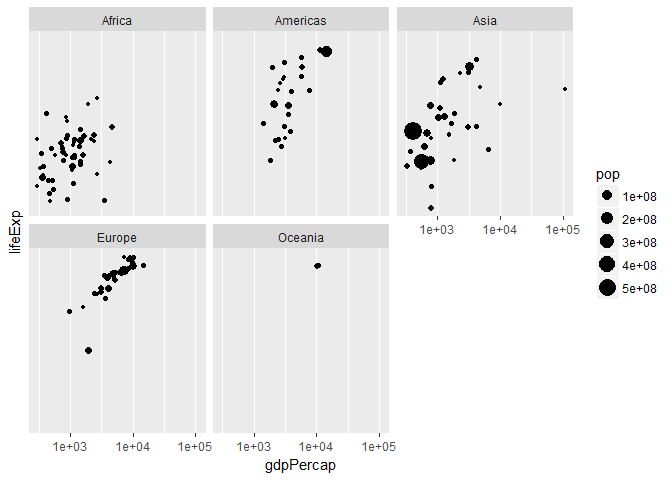
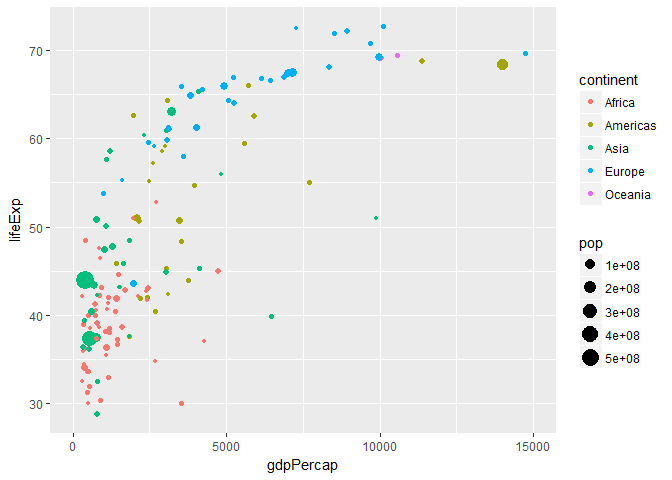
save markdown

diff --git a/R/learn_ggplot.md b/R/learn_ggplot.md
@@ -1,8 +1,8 @@
 ---
 title: "R for Data Science"
 output: 
-  html_document:
-    keep_md: true
+  html_document: 
+    keep_md: yes
 ---
 
 This is a [R Markdown](http://rmarkdown.rstudio.com) Notebook.  Pressing *Ctrl+Shift+Enter* runs the chunk. 
@@ -10,43 +10,8 @@ This is a [R Markdown](http://rmarkdown.rstudio.com) Notebook.  Pressing *Ctrl+S
 
 ```r
 library(gapminder)
-```
-
-```
-## Warning: package 'gapminder' was built under R version 3.4.3
-```
-
-```r
 library(dplyr)
-```
-
-```
-## Warning: package 'dplyr' was built under R version 3.4.3
-```
-
-```
-## 
-## Attaching package: 'dplyr'
-```
-
-```
-## The following objects are masked from 'package:stats':
-## 
-##     filter, lag
-```
-
-```
-## The following objects are masked from 'package:base':
-## 
-##     intersect, setdiff, setequal, union
-```
-
-```r
 library(ggplot2)
-```
-
-```
-## Warning: package 'ggplot2' was built under R version 3.4.3
 ```
 
 *Insert Chunk* on the toolbar or by pressing *Ctrl+Alt+I*.
@@ -58,15 +23,8 @@ Unlike *Knit*, *Preview* does not run any R code chunks, what was last run in th
 
 ```r
 gapminder_1952 = gapminder %>% filter(year==1952)
-```
-
-```
-## Warning: package 'bindrcpp' was built under R version 3.4.4
-```
-
-```r
-ggplot(gapminder_1952, aes(x=gdpPercap, y = lifeExp, size= pop)) +
-   geom_point() + scale_x_log10() + scale_y_log10() + facet_wrap(~ continent)
+ggplot(gapminder_1952, aes(x=gdpPercap, y = lifeExp, size= pop, color=continent)) +
+   geom_point() +xlim(0,15000)
 ```
 
 ![](learn_ggplot_files/figure-html/unnamed-chunk-2-1.png)<!-- -->
